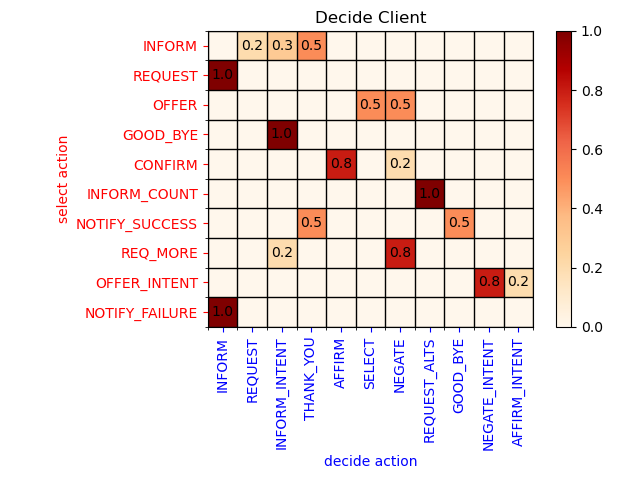
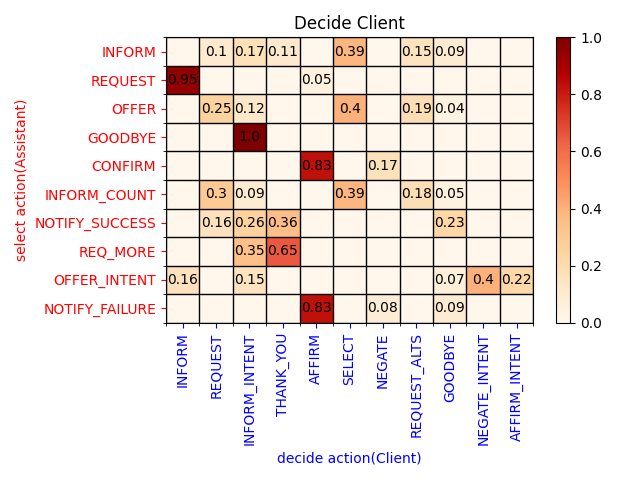
analysis sgd actions and plot matrix

diff --git a/usr_sys_generator.py b/usr_sys_generator.py
@@ -9,6 +9,7 @@ domain_transition_matrix = [
         [0.4, 0.2, 0.4],
         [0.4, 0.4, 0.2]
 ]
+'''
 usr_matrix = [
     [0., 0.2, 0.3, 0.5, 0., 0., 0., 0., 0., 0., 0.],
     [1., 0., 0., 0., 0., 0., 0., 0., 0., 0., 0.],
@@ -34,13 +35,19 @@ sys_matrix = [
     [0., 0., 0., 0.3, 0., 0., 0., 0.7, 0., 0.],
     [0., 1., 0., 0., 0., 0., 0., 0., 0., 0.]
 ]
+
+'''
+matrix_file = './matrix_weighted.npy'
+with open(matrix_file, 'rb') as f:
+        usr_matrix, sys_matrix, usr_inner_matrix, sys_inner_matrix = [np.load(f) for _ in range(4)]
+
 sys_inner_matrix = [
     [0., 0., 0., 0., 0., 0., 0., 0., 0., 0., 1.],
     [0., 0., 0., 0., 0., 0., 0., 0., 0., 0., 1.],
-    [0., 0., 0., 0., 0., 1., 0., 0., 0., 0., 0.],
+    [0., 0., 0.78, 0., 0., 0.19, 0., 0., 0., 0., 0.03],
     [0., 0., 0., 0., 0., 0., 0., 0., 0., 0., 1.],
     [0., 0., 0., 0., 0., 0., 0., 0., 0., 0., 1.],
-    [0., 0., 0., 0., 0., 0., 0., 0., 0., 0., 1.],
+    [0., 0., 1., 0., 0., 0., 0., 0., 0., 0., 0.],
     [0., 0., 0., 0., 0., 0., 0., 0., 0., 0., 1.],
     [0., 0., 0., 0., 0., 0., 0., 0., 0., 0., 1.],
     [0., 0., 0., 0., 0., 0., 0., 0., 0., 0., 1.],
@@ -51,19 +58,19 @@ usr_inner_matrix = [
     [0., 0., 0., 0., 0., 0., 0., 0., 0., 0., 0., 1.],
     [0., 0., 0., 0., 0., 0., 0., 0., 0., 0., 0., 1.],
     [0.5, 0., 0., 0., 0., 0., 0., 0., 0., 0., 0., 0.5],
+    [0., 0., 0., 0., 0., 0., 0., 0., 0.37, 0., 0., 0.63],
+    [0., 0., 0., 0., 0., 0., 0., 0., 0., 0., 0., 1.],
+    [0., 0., 0., 0., 0., 0., 0., 0., 0.12, 0., 0., 0.88],
+    [0., 0., 0., 0.97, 0., 0., 0., 0., 0.02, 0., 0., 0.01],
     [0., 0., 0., 0., 0., 0., 0., 0., 0., 0., 0., 1.],
     [0., 0., 0., 0., 0., 0., 0., 0., 0., 0., 0., 1.],
-    [0., 0., 0.3, 0., 0., 0., 0., 0., 0.7, 0., 0., 0.],
-    [0., 0., 0., 1., 0., 0., 0., 0., 0., 0., 0., 0.],
-    [1., 0., 0., 0., 0., 0., 0., 0., 0., 0., 0., 0.],
-    [0., 0., 0., 0., 0., 0., 0., 0., 0., 0., 0., 1.],
-    [0., 0., 0., 0., 0., 0., 0., 0., 1., 0., 0., 0.],
-    [1., 0., 0., 0., 0., 0., 0., 0., 0., 0., 0., 0.],
+    [0., 0., 0., 0., 0., 0., 0., 0., 0.16, 0., 0., 0.84],
+    [0.5, 0., 0., 0., 0., 0., 0., 0., 0., 0., 0., 0.5],
     [0., 0., 0., 0., 0., 0., 0., 0., 0., 0., 0., 1.]
 ]
 
-usr_acts, sys_acts = ["INFORM", "REQUEST", "INFORM_INTENT", "THANK_YOU", "AFFIRM", "SELECT", "NEGATE", "REQUEST_ALTS", "GOOD_BYE", "NEGATE_INTENT", "AFFIRM_INTENT", "none"],\
-         ["INFORM", "REQUEST", "OFFER", "GOOD_BYE", "CONFIRM", "INFORM_COUNT", "NOTIFY_SUCCESS", "REQ_MORE", "OFFER_INTENT", "NOTIFY_FAILURE", "none"]
+usr_acts, sys_acts = ["INFORM", "REQUEST", "INFORM_INTENT", "THANK_YOU", "AFFIRM", "SELECT", "NEGATE", "REQUEST_ALTS", "GOODBYE", "NEGATE_INTENT", "AFFIRM_INTENT", "none"],\
+         ["INFORM", "REQUEST", "OFFER", "GOODBYE", "CONFIRM", "INFORM_COUNT", "NOTIFY_SUCCESS", "REQ_MORE", "OFFER_INTENT", "NOTIFY_FAILURE", "none"]
 
 def get_usr_act(usr_act, schemas, domain_index):    
     if usr_act != "none": 
@@ -98,14 +105,10 @@ def generate_goal(file_name):
     sys_idx = np.random.choice([i for i in range(len(sys_matrix[old_usr_idx]))], 1, p=sys_matrix[old_usr_idx])[0]    
     sys_idx_inner = np.random.choice([i for i in range(len(sys_inner_matrix[sys_idx]))], 1, p=sys_inner_matrix[sys_idx])[0]
     old_sys_idx = deepcopy(sys_idx_inner) if sys_acts[sys_idx_inner]!='none' else deepcopy(sys_idx)
-    #print(usr_idx, sys_idx)
-    #print(usr_idx_inner, sys_idx_inner)
-    #print(old_usr_idx, old_sys_idx)
+   
     while True:          
         usr_act, sys_act = (usr_acts[usr_idx], sys_acts[sys_idx])
         usr_act_inner, sys_act_inner = (usr_acts[usr_idx_inner], sys_acts[sys_idx_inner])        
-        #old_usr_idx, old_sys_idx = deepcopy(usr_idx_inner) if usr_act_inner!='none' else deepcopy(usr_idx), \
-        #    deepcopy(sys_idx_inner) if sys_act_inner!='none' else deepcopy(sys_idx)
 
         if usr_act != "none": 
             if usr_act == "INFORM_INTENT":
@@ -113,10 +116,7 @@ def generate_goal(file_name):
                 state_d = schemas[domain_index]                            
                 intent_i = random.choice(state_d["intents"]) #select intent from domain_i(state_d)
                 slots_i = list(intent_i["required_slots"])
-                #print(intent_i["required_slots"], intent_i["result_slots"], intent_i["optional_slots"])
-                #print('name', intent_i['name'])
-                #print('required_slots', intent_i["required_slots"])
-                #print('result_slots', intent_i["result_slots"]) 
+                
                 print("usr", f"{usr_act}(", intent_i["name"], ")")
                 
             elif usr_act == "INFORM":     
@@ -136,9 +136,7 @@ def generate_goal(file_name):
                 state_d = schemas[domain_index]                            
                 intent_i = random.choice(state_d["intents"]) #select intent from domain_i(state_d)
                 slots_i = list(intent_i["required_slots"])
-                #print('name', intent_i['name'])
-                #print('required_slots', intent_i["required_slots"])
-                #print('result_slots', intent_i["result_slots"])    
+                 
                 print("usr", f"{usr_act_inner}(", intent_i["name"], ")")
             elif usr_act_inner == "INFORM":            
                 if slots_i: print("usr", f"{usr_act_inner}(", slots_i, "=)")
@@ -163,15 +161,18 @@ def generate_goal(file_name):
                 print("sys", f"{sys_act}")
 
         if sys_act_inner != "none": 
-            print("sys", sys_act_inner)
+            if  sys_act == "REQUEST":
+                print("sys", f"{sys_act_inner}(", optional_slot, ")")
+            else:
+                print("sys", sys_act_inner)
 
-        if sys_act == "GOOD_BYE" or sys_act_inner == "GOOD_BYE":
+        if sys_act == "GOODBYE" or sys_act_inner == "GOODBYE":
             break        
         print()
         usr_idx = np.random.choice([i for i in range(len(usr_matrix[old_sys_idx]))], 1, p=usr_matrix[old_sys_idx])[0]
         usr_idx_inner = np.random.choice([i for i in range(len(usr_inner_matrix[usr_idx]))], 1, p=usr_inner_matrix[usr_idx])[0]
         old_usr_idx = deepcopy(usr_idx_inner) if usr_acts[usr_idx_inner]!='none' else deepcopy(usr_idx)
-        
+        #print(sys_matrix[old_usr_idx], old_usr_idx)
         sys_idx = np.random.choice([i for i in range(len(sys_matrix[old_usr_idx]))], 1, p=sys_matrix[old_usr_idx])[0]        
         sys_idx_inner = np.random.choice([i for i in range(len(sys_inner_matrix[sys_idx]))], 1, p=sys_inner_matrix[sys_idx])[0]
         old_sys_idx = deepcopy(sys_idx_inner) if sys_acts[sys_idx_inner]!='none' else deepcopy(sys_idx)
@@ -180,7 +181,7 @@ def draw_matrix(matrix, select_acts=[], output_acts=[], labels=[], img_name='def
     
     fig, ax = plt.subplots()
     plt.title(img_name)
-    im = ax.imshow(matrix, cmap='OrRd')
+    im = ax.imshow(matrix, cmap='OrRd', aspect='auto')
     # Major ticks
     ax.set_xticks(np.arange(0, len(matrix[0]), 1))
     ax.set_yticks(np.arange(0, len(matrix), 1))    
@@ -190,8 +191,8 @@ def draw_matrix(matrix, select_acts=[], output_acts=[], labels=[], img_name='def
     ax.set_yticklabels(select_acts, rotation=0, color="red" if labels[1]!='Client' else 'blue')    
     ax.tick_params(axis="x", bottom=True, top=False, labelbottom=True, labeltop=False, color="red" if labels[0]!='Client' else 'blue')
     ax.tick_params(axis="y", color="red" if labels[1]!='Client' else 'blue')
-    ax.set_xlabel('decide action', color="red" if labels[0]!='Client' else 'blue')
-    ax.set_ylabel('select action', color="red" if labels[1]!='Client' else 'blue')    
+    ax.set_xlabel('decide action'+f"({labels[0]})", color="red" if labels[0]!='Client' else 'blue')
+    ax.set_ylabel('select action'+f"({labels[1]})", color="red" if labels[1]!='Client' else 'blue')    
 
     # Minor ticks
     ax.set_xticks(np.arange(-.5, len(matrix[0]), 1), minor=True)
@@ -212,16 +213,16 @@ if __name__ == "__main__":
     generate_goal("messagewoz_schema.json")
 
     '''
-    usr_matrix = np.array(usr_matrix)    
+    usr_matrix = np.around(usr_matrix, decimals=2)    
     draw_matrix(usr_matrix, sys_acts[:-1], usr_acts[:-1], ['Client', 'Assistant'], 'Decide Client')
 
-    sys_matrix = np.array(sys_matrix)
+    sys_matrix = np.around(sys_matrix, decimals=2)
     draw_matrix(sys_matrix, usr_acts[:-1], sys_acts[:-1], ['Assistant', 'Client'], 'Decide Assistant')
 
-    usr_inner_matrix = np.array(usr_inner_matrix)
+    usr_inner_matrix = np.around(usr_inner_matrix, decimals=2)
     draw_matrix(usr_inner_matrix, usr_acts, usr_acts, ['Client', 'Client'], 'Continue Decide Client')
 
-    sys_inner_matrix = np.array(sys_inner_matrix)
+    sys_inner_matrix = np.around(sys_inner_matrix, decimals=2)
     draw_matrix(sys_inner_matrix, sys_acts, sys_acts, ['Assistant', 'Assistant'], 'Continue Decide Assistant')
     '''
     

diff --git a/analysis.py b/analysis.py
@@ -1,14 +1,95 @@
 import os, json
+import numpy as np
+from pprint import pprint
+import pandas as pd
 
 def get_action_times(paths):
+    is_start, is_in_start = False, False
+    usr_acts, sys_acts = ["INFORM", "REQUEST", "INFORM_INTENT", "THANK_YOU", "AFFIRM", "SELECT", "NEGATE", "REQUEST_ALTS", "GOODBYE", "NEGATE_INTENT", "AFFIRM_INTENT", "none"],\
+         ["INFORM", "REQUEST", "OFFER", "GOODBYE", "CONFIRM", "INFORM_COUNT", "NOTIFY_SUCCESS", "REQ_MORE", "OFFER_INTENT", "NOTIFY_FAILURE", "none"]
+    usr_index, sys_index = 0, 0 
+    usr_in_index, sys_in_index = -1, -1 
+    usr_matrix = np.zeros((len(sys_acts)-1, len(usr_acts)-1))
+    sys_matrix = np.zeros((len(usr_acts)-1, len(sys_acts)-1))
+
+    usr_inner_matrix = np.zeros((len(usr_acts), len(usr_acts)))
+    sys_inner_matrix = np.zeros((len(sys_acts), len(sys_acts)))
+    
     action_times = {}
     for path in paths:
         file_path = os.path.join('sgd', path)
-        for d_file in os.listdir(file_path):
+        for d_file in os.listdir(file_path)[:-1]:
             file_name = os.path.join(file_path, d_file)
-            json.loads(open(file_name, encoding='utf-8').read())
+            dialogs = json.loads(open(file_name, encoding='utf-8').read())
+            for dialog in dialogs:
+                for turn in dialog["turns"]:
+                    for frame in turn["frames"]:  
+                        if len(frame["actions"]) > 1:  
+                            usr_in_index, sys_in_index = -1, -1                     
+                            for act in frame["actions"]:
+                                #print(turn['speaker']+'-'+act['act'])
+                                if not turn['speaker']+'-'+act['act'] in action_times:action_times[turn['speaker']+'-'+act['act']] = 1
+                                else:action_times[turn['speaker']+'-'+act['act']] += 1
+                        else:
+                            act = frame["actions"][0]
+                            if not turn['speaker']+'-'+act['act'] in action_times:action_times[turn['speaker']+'-'+act['act']] = 1
+                            else:action_times[turn['speaker']+'-'+act['act']] += 1                            
+                        #act = frame["actions"][0]                               
+                        if not is_start: 
+                            is_start = True
+                            if turn['speaker'] == 'USER':usr_index = usr_acts.index(act['act'])
+                            else:sys_index = sys_acts.index(act['act'])
+                        else:
+                            if turn['speaker'] == 'USER':
+                                usr_index = usr_acts.index(act['act'])
+                                usr_matrix[sys_index, usr_index] += 1
+                            else:
+                                sys_index = sys_acts.index(act['act'])
+                                sys_matrix[usr_index, sys_index] += 1
+                            
+                is_start = False
+    pprint(action_times)
+    df = pd.DataFrame({'Action_name':action_times.keys(), "Amount":action_times.values()})
+    df.to_csv('times.csv', index=False)
+    print("usr")
+    print(usr_matrix)
+    print("sys")
+    print(sys_matrix)
+    
+
+    print("usr inner")
+    print(usr_inner_matrix)
+    print("sys inner")
+    print(sys_inner_matrix)
+    with open('./matrix.npy', 'wb') as f:
+        np.save(f, usr_matrix)
+        np.save(f, sys_matrix)
+        np.save(f, usr_inner_matrix)
+        np.save(f, sys_inner_matrix)
+
+def get_weighted_matrix(matrix_file):   
+    with open(matrix_file, 'rb') as f:
+        usr_matrix, sys_matrix, usr_inner_matrix, sys_inner_matrix = [np.load(f) for _ in range(4)]
+        usr_matrix[3, 2] = 1.
+
+    with open('./matrix_weighted.npy', 'wb') as f:
+        for matrix in [usr_matrix, sys_matrix]:
+            for i in range(matrix.shape[0]):
+                if not sum(matrix[i])==0:
+                    matrix[i] /= sum(matrix[i])
+            print(np.around(matrix, decimals=3))
+            np.save(f, matrix)
+        for matrix in [usr_inner_matrix, sys_inner_matrix]:
+            for i in range(matrix.shape[0]):
+                if not sum(matrix[i])==0:
+                    matrix[i] /= sum(matrix[i])
+                else: matrix[i][-1] = 1.
+            print(np.around(matrix, decimals=3))
+            np.save(f, matrix)
+                
             
 
 if __name__=="__main__":
     paths = ['train', 'test', 'dev']
     get_action_times(paths)
+    get_weighted_matrix("./matrix.npy")
